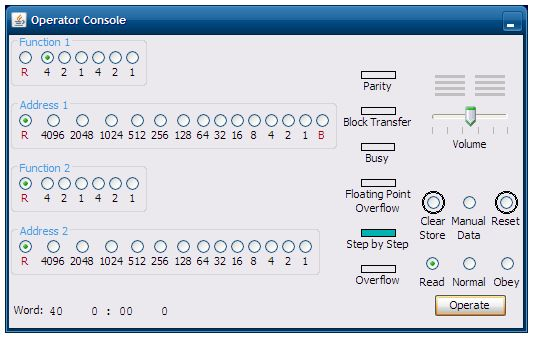
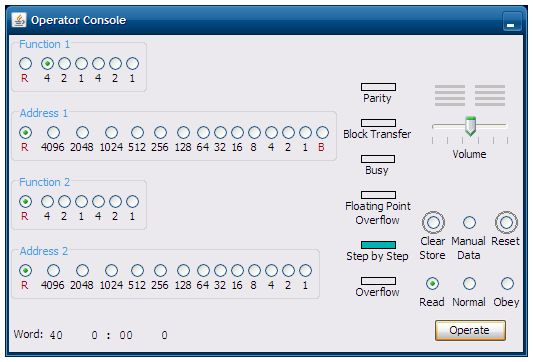
Remodel operator console

diff --git a/docs/operation.html b/docs/operation.html
@@ -67,8 +67,8 @@ If not specified the default value is 5.</dd>
 By default the standard platform look-and-feel will be used.
 Other look-and-feels that may be available (depending on operating system
 and Java version) include: <code>metal</code>, <code>ocean</code>, <code>steel</code>,
-<code>windows</code>, <code>classic</code>, <code>motif</code>, <code>gtk</code> and 
-<code>nimbus</code>.
+<code>windows</code>, <code>classic</code>, <code>motif</code>, <code>gtk</code>,
+<code>mac</code> and <code>nimbus</code>.
 </dd>
 </dl></blockquote>
 <p>The GUI interface displays a main window containing several smaller internal

diff --git a/src/elliott803/view/component/ConsoleButtons.java b/src/elliott803/view/component/ConsoleButtons.java
@@ -57,14 +57,18 @@ public class ConsoleButtons extends JPanel implements ActionListener {
 
     public void actionPerformed(ActionEvent e) {
         ConsoleBitButton b = (ConsoleBitButton)e.getSource();
-        if (b == release) {
-            for (ConsoleBitButton c : buttons) {
-                console.clearWordGenBit(c.getBit());
-                c.setSelected(false);
-            }
+        if (!b.isSelected()) {
+            b.setSelected(true);
         } else {
-            console.setWordGenBit(b.getBit());
-            release.setSelected(false);
+            if (b == release) {
+                for (ConsoleBitButton c : buttons) {
+                    console.clearWordGenBit(c.getBit());
+                    c.setSelected(false);
+                }
+            } else {
+                console.setWordGenBit(b.getBit());
+                release.setSelected(false);
+            }
         }
     }
 }

diff --git a/src/elliott803/view/component/ConsoleOpButton.java b/src/elliott803/view/component/ConsoleOpButton.java
@@ -38,7 +38,7 @@ public class ConsoleOpButton extends JPanel {
         button = new PushButton(push);
         button.setAlignmentX(CENTER_ALIGNMENT);
         button.setFocusable(false);
-        Border b = (shroud) ? new CircleBorder(Color.BLACK, 2) : BorderFactory.createEmptyBorder(2, 2, 2, 2);
+        Border b = (shroud) ? new CircleBorder(Color.GRAY, 2) : BorderFactory.createEmptyBorder(2, 2, 2, 2);
         button.setBorder(BorderFactory.createCompoundBorder(b, BorderFactory.createEmptyBorder(3, 3, 3, 3)));
         button.setBorderPainted(true);
         button.setActionCommand(name);

diff --git a/src/elliott803/view/ConsoleView.java b/src/elliott803/view/ConsoleView.java
@@ -91,7 +91,7 @@ public class ConsoleView extends JInternalFrame implements ActionListener, Focus
         controls.add(new ConsoleControl(console));
         controls.add(Box.createVerticalStrut(10));
         controls.add(new ConsoleOperation(console));
-        controls.add(Box.createVerticalStrut(5));
+        controls.add(Box.createVerticalStrut(10));
 
         // Operate bar
         operate = new JButton(CONSOLE_OPERATE);
